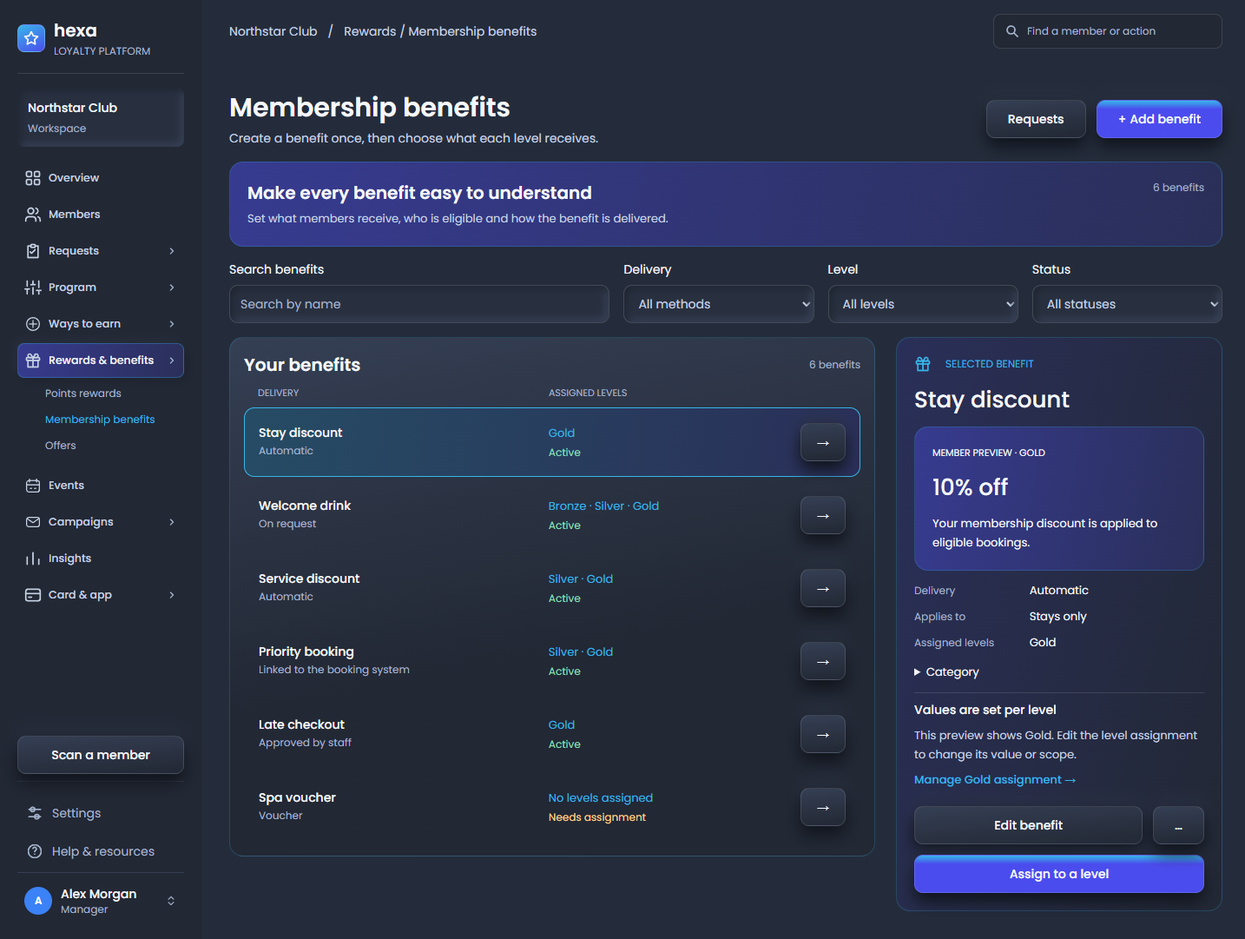
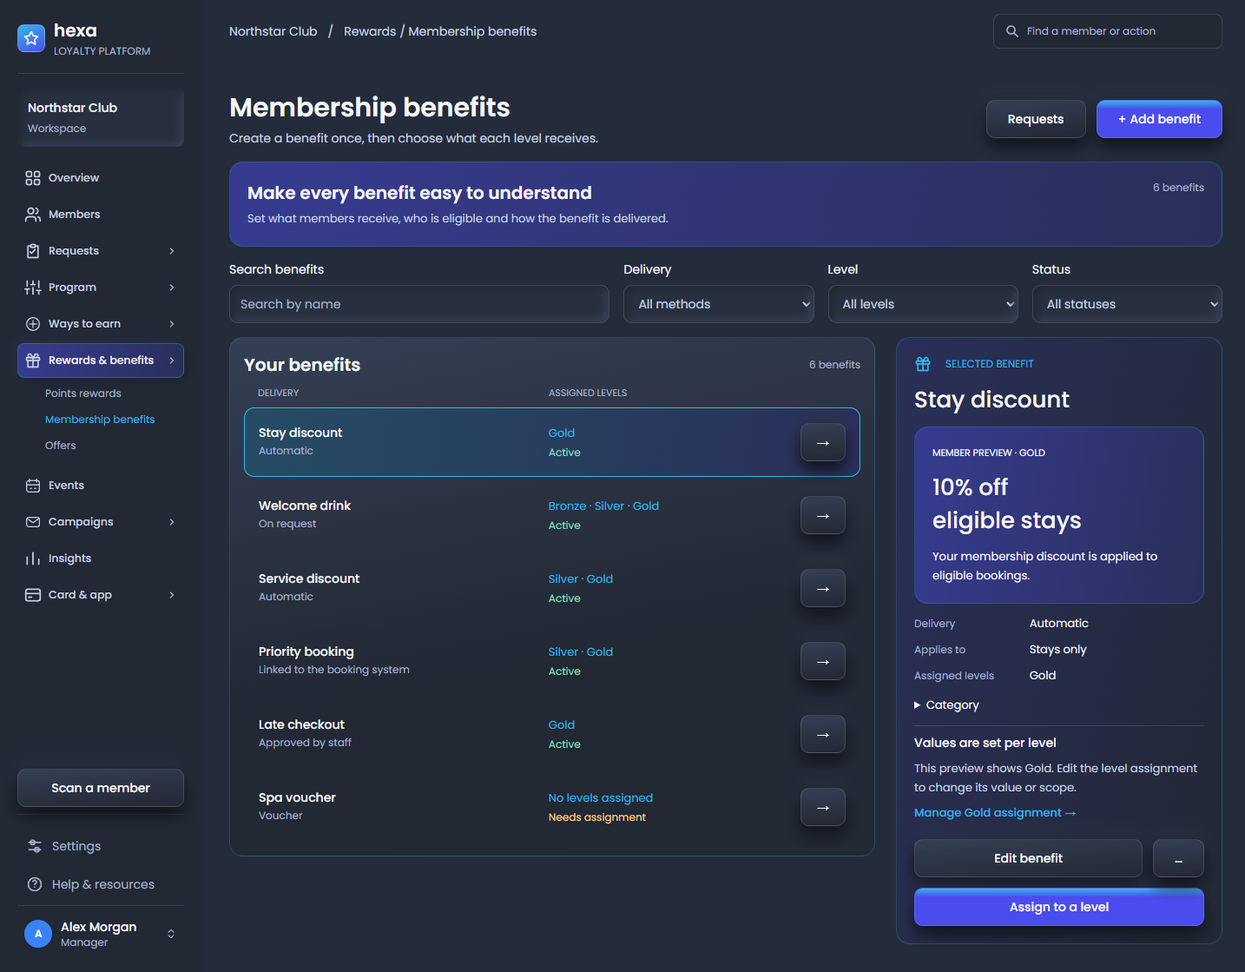
Apply Rewards and benefits verified source patch

diff --git a/frontend/e2e/rewards-benefits.states.js b/frontend/e2e/rewards-benefits.states.js
@@ -1,0 +1,112 @@
+// Run after the isolated Rewards fixture. No production API requests.
+async (page) => {
+  page.setDefaultTimeout(8000);
+  const base = new URL(page.url()).origin, checks = [];
+  const root = 'C:/wamp64/www/Hexa-Tech/docs/loyalty-redesign/evidence/rewards-benefits/';
+  const fixture = patch => page.evaluate(async p => (await fetch('/api/v1/admin/loyalty/__fixture', p ? { method: 'POST', headers: { 'Content-Type': 'application/json' }, body: JSON.stringify(p) } : {})).json(), patch);
+  const original = await fixture();
+  const ok = (value, name) => { if (!value) throw Error(name); checks.push(name); };
+  const go = async query => { await page.goto(base + '/loyalty/rewards' + query); await page.locator('.l-rb-list, .l-rb-editor').first().waitFor(); };
+  const button = name => page.getByRole('button', { name, exact: true });
+  const writes = async () => (await fixture()).requests.filter(r => r.method !== 'GET');
+  try {
+    await go('?reward=1');
+    await page.getByRole('combobox', { name: 'Availability', exact: true }).selectOption('limited');
+    await page.getByRole('spinbutton', { name: 'Stock', exact: true }).fill('');
+    await page.getByRole('combobox', { name: 'Claims per member', exact: true }).selectOption('custom');
+    const limit = page.getByRole('spinbutton', { name: 'Custom limit', exact: true });
+    await limit.fill(''); await limit.pressSequentially('12');
+    ok(await limit.inputValue() === '12', 'custom limit remains editable through blank and first digit');
+    const before = (await writes()).length; await button('Save reward').click();
+    ok((await writes()).length === before && await page.getByRole('spinbutton', { name: 'Stock', exact: true }).isVisible(), 'blank limited stock blocks save without hiding the field');
+    await page.getByRole('spinbutton', { name: 'Stock', exact: true }).fill('10');
+    await fixture({ writeFail: true }); await button('Save reward').click(); await page.locator('[role=alert]').first().waitFor();
+    ok(await limit.inputValue() === '12', '503 keeps the reward draft');
+    await fixture({ writeFail: false }); await button('Save reward').click(); await page.getByText('Saved. Your catalogue is up to date.', { exact: true }).waitFor();
+    checks.push('reward retry saves and announces success');
+
+    await go('?tab=benefits'); await button('+ Add benefit').click();
+    let d = page.getByRole('dialog'); await d.getByRole('button', { name: 'Add benefit', exact: true }).click();
+    ok(await d.locator('[aria-invalid=true]').count() > 0, 'benefit creation validates required fields');
+    await d.getByRole('textbox', { name: 'Name', exact: true }).fill('Fixture benefit');
+    await d.getByRole('textbox', { name: 'Code', exact: true }).fill('FIXTURE_BENEFIT');
+    await d.getByRole('combobox', { name: 'Category', exact: true }).selectOption('wellness');
+    await d.getByRole('combobox', { name: 'How it is given', exact: true }).selectOption('voucher');
+    await d.getByRole('button', { name: 'Add benefit', exact: true }).click(); await d.waitFor({ state: 'hidden' });
+    await button('Select Fixture benefit').click(); await page.getByRole('heading', { name: 'Fixture benefit', exact: true }).waitFor();
+    const id = (await fixture()).program.benefits.find(b => b.code === 'FIXTURE_BENEFIT').id;
+    ok(!!id, 'new benefit persists its code, category and fulfillment');
+    await button('More').click(); await page.getByRole('menuitem', { name: 'Rename', exact: true }).click();
+    d = page.getByRole('dialog'); await d.getByRole('textbox', { name: 'New name', exact: true }).fill('Renamed fixture'); await d.getByRole('button', { name: 'Rename', exact: true }).click(); await d.waitFor({ state: 'hidden' });
+    await page.getByRole('heading', { name: 'Renamed fixture', exact: true }).waitFor();
+    ok((await writes()).at(-1).payload.name === 'Renamed fixture', 'rename uses the existing benefit endpoint');
+    await button('More').click(); await page.getByRole('menuitem', { name: 'Switched off', exact: true }).click();
+    await page.waitForFunction(id => document.querySelector(`[data-record="benefit-${id}"]`).textContent.includes('Switched off'), id, { timeout: 8000 });
+    ok(!(await fixture()).program.benefits.find(b => b.id === id).is_active, 'benefit can be paused');
+    await button('More').click(); await page.getByRole('menuitem', { name: 'Active', exact: true }).click();
+    await page.waitForFunction(id => !document.querySelector(`[data-record="benefit-${id}"]`).textContent.includes('Switched off'), id, { timeout: 8000 });
+    await button('More').click(); await page.getByRole('menuitem', { name: 'Delete', exact: true }).click();
+    d = page.getByRole('dialog'); await d.getByRole('button', { name: 'Delete benefit', exact: true }).waitFor();
+    await d.getByRole('button', { name: 'Keep it', exact: true }).click();
+    ok((await fixture()).program.benefits.some(b => b.id === id), 'delete preview can be cancelled without a write');
+    await button('More').click(); await page.getByRole('menuitem', { name: 'Delete', exact: true }).click();
+    await page.getByRole('dialog').getByRole('button', { name: 'Delete benefit', exact: true }).click(); await page.getByRole('dialog').waitFor({ state: 'hidden' });
+    ok(!(await fixture()).program.benefits.some(b => b.id === id), 'confirmed benefit deletion refreshes the catalogue');
+
+    await fixture({ limited: true }); await go('');
+    ok(await page.getByRole('link', { name: '+ Add reward', exact: true }).count() === 0 && await page.getByRole('link', { name: 'Edit reward', exact: true }).count() === 0, 'read-only rewards hide write links');
+    await go('?reward=1'); ok(await page.getByRole('textbox', { name: 'Reward name', exact: true }).isDisabled() && await button('Save reward').count() === 0, 'direct reward editor enforces read-only access');
+    await go('?tab=offers'); ok(await page.getByRole('textbox', { name: 'Offer name', exact: true }).isDisabled() && await button('Save offer').count() === 0, 'read-only offers disable form and omit saving');
+    await go('?tab=benefits'); ok(await button('Edit benefit').count() === 0 && await button('Assign to a level').count() === 0 && await button('+ Add benefit').count() === 0, 'read-only benefits hide management actions');
+    const programOnly = structuredClone(original.boot); programOnly.staff.can.manage_rewards = false;
+    await fixture({ limited: false, boot: programOnly }); await go('?tab=benefits'); ok(await button('Edit benefit').isVisible(), 'manage_program permits benefits independently of manage_rewards');
+    const rewardsOnly = structuredClone(original.boot); rewardsOnly.staff.can.manage_program = false;
+    await fixture({ boot: rewardsOnly }); await go('?tab=benefits'); ok(await button('Edit benefit').count() === 0, 'manage_rewards alone does not permit benefit changes');
+    await fixture({ boot: original.boot, empty: true });
+    for (const [query, message] of [['', 'Add your first reward to start your catalogue.'], ['?tab=offers', 'Create your first offer for members.'], ['?tab=benefits', 'Create a benefit, then assign it to a level.']]) {
+      await go(query); await page.getByText(message, { exact: true }).waitFor(); ok(await page.locator('.l-rb-row').count() === 0, 'honest empty state: ' + (query || 'rewards'));
+    }
+    await fixture({ empty: false });
+    for (const [query, endpoint] of [['', 'rewards'], ['?tab=offers', 'offers'], ['?tab=benefits', 'program']]) {
+      await fixture({ fail: endpoint }); await page.goto(base + '/loyalty/rewards' + query);
+      await page.getByRole('button', { name: /Retry|Try again/ }).waitFor({ timeout: 20000 });
+      ok(await page.locator('.l-rb-row').count() === 0, endpoint + ' failure shows no invented records');
+      await fixture({ fail: '' }); await page.getByRole('button', { name: /Retry|Try again/ }).click(); await page.locator('.l-rb-row').first().waitFor(); checks.push(endpoint + ' recovers on retry');
+    }
+    for (const tab of ['redemptions', 'referrals']) { await page.goto(base + '/loyalty/rewards?tab=' + tab); await page.locator('#rewards-tab-' + tab).waitFor(); checks.push('legacy ' + tab + ' route preserved'); }
+    await page.goto(base + '/loyalty/program?tab=benefits'); await page.locator('.l-rb-list').waitFor(); checks.push('legacy Program benefits route preserved');
+
+    // Restore baseline data before comparing layouts and capturing evidence.
+    await fixture({ catalogue: original.catalogue, offers: original.offers, program: original.program });
+    for (const width of [1440, 1024, 768, 390, 320]) {
+      await page.setViewportSize({ width, height: width > 1000 ? 1080 : 844 });
+      for (const [name, query] of [['points', ''], ['edit-reward', '?reward=1'], ['offers', '?tab=offers'], ['benefits', '?tab=benefits']]) {
+        await go(query); await page.evaluate(() => document.fonts.ready);
+        ok(await page.evaluate(() => document.documentElement.scrollWidth <= innerWidth + 1 && document.body.scrollWidth <= innerWidth + 1), `${name} fits ${width}px without horizontal overflow`);
+        if (width === 1440 || width === 390) await page.screenshot({ path: root + `render-${name}-${width}.png`, fullPage: true });
+      }
+    }
+    await page.locator('.l-ov-menu-button').click(); await page.getByRole('dialog').waitFor();
+    ok(await page.getByRole('dialog').getByRole('link', { name: 'Membership benefits', exact: true }).isVisible(), 'mobile drawer exposes Rewards subpages');
+    await page.keyboard.press('Escape');
+    await page.setViewportSize({ width: 1440, height: 1080 }); await go('');
+    const assets = await page.locator('[data-loyalty] img').evaluateAll(imgs => imgs.filter(i => i.getBoundingClientRect().width > 0).map(i => ({ src: i.getAttribute('src'), loaded: i.complete && i.naturalWidth > 0, width: i.width, natural: i.naturalWidth })));
+    ok(assets.every(a => a.loaded && !/^https?:/.test(a.src)), 'visible icons load from bundled local assets');
+    await button('Settings').click(); await button('Light').click(); await page.locator('[data-loyalty][data-theme=light]').waitFor(); await page.keyboard.press('Escape');
+    await page.screenshot({ path: root + 'render-light.png', fullPage: true }); checks.push('shared light theme works');
+    for (const lang of ['ru', 'de', 'fr', 'es']) {
+      await button('Settings').click(); await page.getByRole('combobox', { name: /Language|Язык|Sprache|Langue|Idioma/ }).selectOption(lang); await page.keyboard.press('Escape');
+      ok(!(await page.locator('.l-rb-page').innerText()).includes('Your rewards'), lang + ' translates the Rewards workspace');
+      await page.setViewportSize({ width: 320, height: 844 });
+      ok(await page.evaluate(() => document.documentElement.scrollWidth <= innerWidth + 1), lang + ' fits the narrow light layout');
+      await page.setViewportSize({ width: 1440, height: 1080 });
+      // Settings label is translated after the first pass; use its stable shortcut control.
+      if (lang !== 'es') await page.reload();
+    }
+    ok((await fixture()).errors.length === 0, 'no uncaught browser errors');
+    return { passed: checks.length, checks, assets, errors: (await fixture()).errors };
+  } catch (error) {
+    await page.screenshot({ path: root + 'state-failure.png', fullPage: true });
+    return { passed: checks.length, checks, error: String(error), url: page.url(), body: (await page.locator('body').innerText()).slice(-4000) };
+  }
+}

diff --git a/frontend/src/loyalty/rewards/design/OffersDesignPage.tsx b/frontend/src/loyalty/rewards/design/OffersDesignPage.tsx
@@ -87,15 +87,15 @@ function OfferEditor({ offer, options, guard, list }: { offer: Offer | null; opt
       <div className="l-rb-offer-value"><FormField label={t('loyalty.rewards.offer.type', 'Kind')} problem={problem('type')}><select value={form.type} onChange={e => update({ type: e.target.value })}>{!form.type && <option value="">{t('loyalty.rewards.offer.choose', 'Choose…')}</option>}{typeChoices(options.types, current).map(v => <option key={v} value={v}>{word('offer_type', OFFER_TYPE_WORDS, v)}</option>)}</select></FormField><FormField label={t('loyalty.rewards.offer.value', 'Value')} problem={problem('value')}><input type="number" inputMode="decimal" min={0} max={MAX_OFFER_VALUE} step={.01} value={form.value} onChange={e => update({ value: e.target.value })} /></FormField><FormField label={say('offerCode')} problem={problem('code')}><input value={form.code} maxLength={24} spellCheck={false} onChange={e => update({ code: e.target.value })} /></FormField></div>
       {OFFER_KIND_NOTE_WORDS[form.type] && <small>{word('offer_kind_note', OFFER_KIND_NOTE_WORDS, form.type)}</small>}
       <div className="l-rb-grid-two"><FormField label={say('starts')} problem={problem('start_date')}><input type="date" value={form.start_date} onChange={e => update({ start_date: e.target.value })} /></FormField><FormField label={say('ends')} problem={problem('end_date')}><input type="date" value={form.end_date} onChange={e => update({ end_date: e.target.value })} /></FormField></div><small>{say('workspaceTime', { zone: boot.venue.timezone })}</small>
-      {offer && <Check label={t('loyalty.rewards.offer.active', 'On')} checked={form.is_active} onChange={on => update({ is_active: on })} />}
-    </fieldset>{offer && <small>{t('loyalty.rewards.offers.used', 'Used: {{used}}', { used: points(offer.times_used, i18n.language) })}</small>}</section></div>
+    </fieldset></section></div>
     <aside className="l-ov-panel l-rb-detail"><div className="l-rb-eyebrow">{say('offerPreview')}</div><div className="l-rb-preview"><small>{brand === 'every' || (brand === null && savedBrand === null) ? t('loyalty.rewards.brand.every', 'Every brand') : options.brands?.list.find(b => b.id === (brand ?? savedBrand))?.name ?? boot.organization.name}</small>{picture && <img className="l-rb-picture" src={mediaUrl(picture)} alt={form.title} loading="lazy" />}<strong className="l-rb-preview-price">{previewValue}{['discount', 'fixed_amount'].includes(form.type) && ['services', 'stays'].includes(form.applies_to) && ` ${say(form.applies_to === 'services' ? 'scopeServices' : 'scopeStays')}`}</strong><p>{form.title}</p>{form.code && <p>{say('useCode', { code: form.code.toUpperCase() })}</p>}</div>
       <fieldset className="l-rb-fields" disabled={!manage || guard.busy}><FormField label={t('loyalty.rewards.offer.applies_to', 'Applies to')} problem={problem('applies_to')}><select value={form.applies_to} onChange={e => update({ applies_to: e.target.value })}>{[...new Set([...options.applies_to, form.applies_to])].map(v => <option key={v} value={v}>{word('applies_to', APPLIES_TO_WORDS, v)}</option>)}</select></FormField>
       <div className="l-rb-field"><span id="offer-levels">{say('eligibility')}</span><details className="l-rb-level-picker"><summary>{form.tiers.length ? form.tiers.map(id => boot.programme.tiers.find(tier => tier.id === id)?.name ?? String(id)).join(' · ') : say('allMembers')}</summary><div role="group" aria-labelledby="offer-levels">{boot.programme.tiers.map(tier => <label key={tier.id}><input type="checkbox" checked={form.tiers.includes(tier.id)} onChange={() => update({ tiers: toggled(form.tiers, tier.id) })} />{tier.name}</label>)}{form.tiers.filter(id => !boot.programme.tiers.some(tier => tier.id === id)).map(id => <label key={id}><input type="checkbox" checked onChange={() => update({ tiers: toggled(form.tiers, id) })} />{id}</label>)}<OverviewButton type="button" onClick={() => update({ tiers: [] })}>{say('allMembers')}</OverviewButton></div></details>{problem('tier_ids') && <p role="alert">{problem('tier_ids')}</p>}</div>
       <div className="l-rb-grid-two"><FormField label={say('caps')} problem={problem('usage_limit')}><input type="number" inputMode="numeric" min={1} max={Number.MAX_SAFE_INTEGER} step={1} placeholder={say('noLimit')} value={form.usage_limit} onChange={e => update({ usage_limit: e.target.value })} /></FormField><FormField label={say('perMember')} problem={problem('per_member_limit')}><input type="number" inputMode="numeric" min={1} max={Number.MAX_SAFE_INTEGER} step={1} placeholder={say('noLimit')} value={form.per_member_limit} onChange={e => update({ per_member_limit: e.target.value })} /></FormField></div></fieldset>
       <div className="l-rb-divider"><strong>{say('conditions')}</strong><p>{form.description || say('conditionsLine')}</p><button type="button" className="l-ov-link" onClick={() => setDialog('terms')}>{manage ? say('editTerms') : say('terms')}</button></div>
       {failure && <Notice tone="danger">{t(...refusalKey('loyalty.rewards', ERRORS, 'offer', failure))}</Notice>}{saved && <p className="l-rb-success" role="status">{say('saved')}</p>}
-      {manage && <><OverviewButton primary type="submit" disabled={guard.busy}>{t('loyalty.rewards.offer.save', 'Save offer')}</OverviewButton><OverviewButton type="button" disabled={guard.busy || !dirty} onClick={() => { setForm(baseline); setBrand(baseBrand); setTried(false); save.reset(); setSaved(false) }}>{say('cancelChanges')}</OverviewButton>{offer ? <button type="button" className="l-ov-link" disabled={guard.busy} onClick={() => setDialog('picture')}>{t('loyalty.rewards.picture.label', 'Picture')} →</button> : <small>{t('loyalty.rewards.picture.after_save_offer', 'You can add a picture once the offer is saved.')}</small>}</>}</aside>
+      <div className="l-rb-detail-actions">{manage && <OverviewButton primary type="submit" disabled={guard.busy}>{t('loyalty.rewards.offer.save', 'Save offer')}</OverviewButton>}{offer && <details className="l-rb-overflow"><summary className="l-ov-button" aria-label={t('loyalty.membership.more.label', 'More')}>…</summary><div className="l-ov-panel"><fieldset className="l-rb-fields" disabled={!manage || guard.busy}><Check label={t('loyalty.rewards.offer.active', 'On')} checked={form.is_active} onChange={on => update({ is_active: on })} /></fieldset><small>{t('loyalty.rewards.offers.used', 'Used: {{used}}', { used: points(offer.times_used, i18n.language) })}</small>{manage && <button type="button" className="l-ov-link" disabled={guard.busy} onClick={() => setDialog('picture')}>{t('loyalty.rewards.picture.label', 'Picture')} →</button>}</div></details>}</div>
+      {manage && <><button className="l-rb-cancel" type="button" disabled={guard.busy || !dirty} onClick={() => { setForm(baseline); setBrand(baseBrand); setTried(false); save.reset(); setSaved(false) }}>{say('cancelChanges')}</button>{!offer && <small>{t('loyalty.rewards.picture.after_save_offer', 'You can add a picture once the offer is saved.')}</small>}</>}</aside>
     {dialog === 'terms' && <DesignDialog title={say('terms')} onClose={() => setDialog(null)} busy={guard.busy}><FormField label={t('loyalty.rewards.offer.description', 'Description')} problem={problem('description')}><textarea rows={5} readOnly={!manage} value={form.description} onChange={e => update({ description: e.target.value })} /></FormField><OverviewButton type="button" onClick={() => setDialog(null)}>{t('loyalty.overview.close', 'Close')}</OverviewButton></DesignDialog>}
     {dialog === 'picture' && offer && manage && <DesignDialog title={t('loyalty.rewards.picture.label', 'Picture')} onClose={() => setDialog(null)} busy={guard.busy}><PictureField owner="offers" id={offer.id} picture={picture} alt={form.title} limits={options.image} onBusyChange={pictureBusy} onChange={url => { setPicture(url); void client.invalidateQueries({ queryKey: OFFERS_KEY }) }} /></DesignDialog>}
   </form>

diff --git a/frontend/src/loyalty/rewards/design/MembershipBenefitsPage.tsx b/frontend/src/loyalty/rewards/design/MembershipBenefitsPage.tsx
@@ -55,7 +55,7 @@ export function MembershipBenefitsPage({ programRoute = false }: { programRoute?
         {assignments.length > 1 && <label className="l-rb-field"><span>{say('level')}</span><select value={preview?.tier.id} onChange={e => setPreviewTier(Number(e.target.value))}>{assignments.map(a => <option key={a.tier.id} value={a.tier.id}>{a.tier.name}</option>)}</select></label>}
         <dl className="l-rb-facts"><dt>{say('delivery')}</dt><dd>{mode(selected.fulfillment_mode)}</dd>{preview && <><dt>{t('loyalty.program.tier_benefit.applies_to', 'Applies to')}</dt><dd>{t(`loyalty.program.applies_to.${preview.value.applies_to}`, APPLIES_TO_WORDS[preview.value.applies_to] ?? preview.value.applies_to)}</dd></>}<dt>{say('assigned')}</dt><dd>{assignments.map(a => `${a.tier.name}${a.tier.is_active ? '' : ` (${say('off')})`}`).join(' · ') || say('noLevels')}</dd></dl><details className="l-rb-more"><summary>{t('loyalty.program.benefit.category', 'Category')}</summary><p>{selected.category ? t(`loyalty.program.category.${selected.category}`, CATEGORY_WORDS[selected.category] ?? selected.category) : '—'}</p></details>
         <div className="l-rb-divider"><strong>{say('valuesPerLevel')}</strong><p>{preview ? manage ? say('assignmentNote', { level: preview.tier.name }) : say('valuesPerLevel') : say('emptyBenefits')}</p>{preview && manage && <button className="l-ov-link" onClick={() => setOpen({ kind: 'assignment', tier: preview.tier, current: preview.value, benefit: selected })}>{say('manageAssignment', { level: preview.tier.name })}</button>}</div>
-        {manage && <><div className="l-rb-detail-actions"><OverviewButton type="button" onClick={() => setOpen({ kind: 'edit', benefit: selected })}>{say('editBenefit')}</OverviewButton><SideMenu kind="menu" place="down-right" named label={t('loyalty.membership.more.label', 'More')} face="…" buttonClassName="l-ov-button" listClassName="w-56"><button role="menuitem" className="l-rd-menu-item" onClick={() => setOpen({ kind: 'rename', benefit: selected })}>{t('loyalty.program.rename.action', 'Rename')}</button><button role="menuitem" disabled={flip.isPending} className="l-rd-menu-item" onClick={() => flip.mutate(selected)}>{say(selected.is_active ? 'off' : 'active')}</button><button role="menuitem" className="l-rd-menu-item" onClick={() => setOpen({ kind: 'remove', benefit: selected })}>{t('loyalty.program.remove_benefit.action', 'Delete')}</button></SideMenu></div><OverviewButton type="button" primary onClick={() => setOpen({ kind: 'assign', benefit: selected })}>{say('assign')}</OverviewButton></>}
+        {manage && <><div className="l-rb-detail-actions"><OverviewButton type="button" onClick={() => setOpen({ kind: 'edit', benefit: selected })}>{say('editBenefit')}</OverviewButton><SideMenu kind="menu" place="down-right" named label={t('loyalty.membership.more.label', 'More')} face="…" buttonClassName="l-ov-button" listClassName="w-56"><button role="menuitem" className="l-rd-menu-item" onClick={() => setOpen({ kind: 'rename', benefit: selected })}>{t('loyalty.program.rename.action', 'Rename')}</button><button role="menuitem" disabled={flip.isPending} className="l-rd-menu-item" onClick={() => flip.mutate(selected)}>{say(selected.is_active ? 'off' : 'active')}</button><button role="menuitem" className="l-rd-menu-item" onClick={() => setOpen({ kind: 'remove', benefit: selected })}>{t('loyalty.program.remove_benefit.action', 'Delete')}</button></SideMenu></div><OverviewButton type="button" primary disabled={!selected.is_active || flip.isPending} onClick={() => setOpen({ kind: 'assign', benefit: selected })}>{say('assign')}</OverviewButton></>}
         {flip.isError && <Notice tone="danger">{t(...refusalKey('loyalty.program', ERRORS, 'benefit', failureOf(flip.error)))}</Notice>}
       </aside>}</div></>}
     {data && manage && open?.kind === 'edit' && <BenefitDialog benefit={open.benefit} options={data.options} onClose={close} />}

diff --git a/frontend/src/loyalty/rewards/design/PointsRewardsPage.tsx b/frontend/src/loyalty/rewards/design/PointsRewardsPage.tsx
@@ -29,6 +29,7 @@ export function PointsRewardsPage() {
     {!manage && <p data-read-only="">{t('loyalty.rewards.catalogue.read_only', 'Only staff allowed to manage offers can add or change rewards.')}</p>}
     {query.isError && <LoadFailed error={query.error} onRetry={() => { void query.refetch() }} />}
     {!data && query.isLoading && <Loading />}
+    {params.get('saved') && <p role="status" className="l-rb-success">{say('saved')}</p>}
     {data && <><RewardHero title={say('rewardHero')} line={say('rewardHeroLine')} count={say('available', { n: allCount })} />
       <div className="l-rb-filters"><label><span>{say('searchRewards')}</span><input type="search" value={q} placeholder={say('searchName')} onChange={e => go({ q: e.target.value })} /></label><div className="l-rb-read-field"><span>{say('delivery')}</span><p>{say('memberCode')}</p></div><div className="l-rb-read-field"><span>{say('level')}</span><p>{say('allMembers')}</p></div><label><span>{say('status')}</span><select value={status} onChange={e => go({ status: e.target.value })}><option value="all">{say('allStatuses')}</option>{(['active', 'off', 'ended', 'soldOut'] as const).map(s => <option key={s} value={s}>{say(s)}</option>)}</select></label></div>
       <div className="l-rb-columns"><section className="l-ov-panel l-rb-list"><header><h2>{say('yourRewards')}</h2><small>{say('rewardCount', { n: visible.length })}</small></header><ul>{visible.map(r => <RewardRow key={r.id} id={`reward-${r.id}`} name={r.name} caption={`${say('allMembers')} · ${say('memberCode')}`} value={t('loyalty.earn.points', '{{n}} points', { n: points(r.points_cost, i18n.language) })} status={say(rewardStatus(r))} tone={rewardStatus(r)} selected={r.id === selected?.id} onSelect={() => go({ selected: r.id })} />)}</ul>{!visible.length && <RewardEmpty empty={!rewards.length ? say('emptyRewards') : undefined} onClear={rewards.length ? () => go({ q: '', status: 'all' }) : undefined} />}</section>

diff --git a/frontend/src/loyalty/rewards/design/rewards.css b/frontend/src/loyalty/rewards/design/rewards.css
@@ -57,6 +57,9 @@
 [data-loyalty] .l-rb-fields, [data-loyalty] .l-rb-editor { display: flex; flex-direction: column; gap: 16px; min-width: 0; }
 [data-loyalty] .l-rb-fields { border: 0; margin: 0; padding: 0; }
 [data-loyalty] .l-rb-form-panel { padding: 24px; display: flex; flex-direction: column; gap: 20px; }
+[data-loyalty] .l-rb-offer-editor .l-rb-form-panel { padding: 20px; gap: 16px; }
+[data-loyalty] .l-rb-cancel { align-self: flex-start; font-size: 13px; color: var(--l-ov-secondary); text-align: left; }
+[data-loyalty] .l-rb-cancel:disabled { opacity: .65; cursor: default; }
 [data-loyalty] .l-rb-grid-two { display: grid; grid-template-columns: repeat(2,minmax(0,1fr)); gap: 16px 24px; }
 [data-loyalty] .l-rb-name-status { display: grid; grid-template-columns: minmax(0,2fr) minmax(0,1fr); gap: 24px; }
 [data-loyalty] .l-rb-offer-value { display: grid; grid-template-columns: minmax(0,1fr) minmax(0,1fr) minmax(0,2fr); gap: 16px; }
